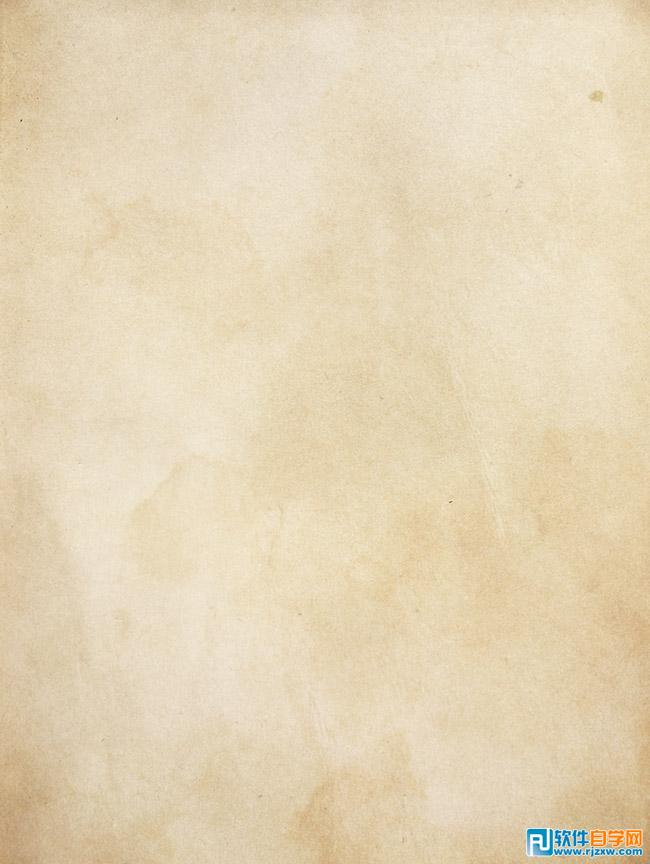
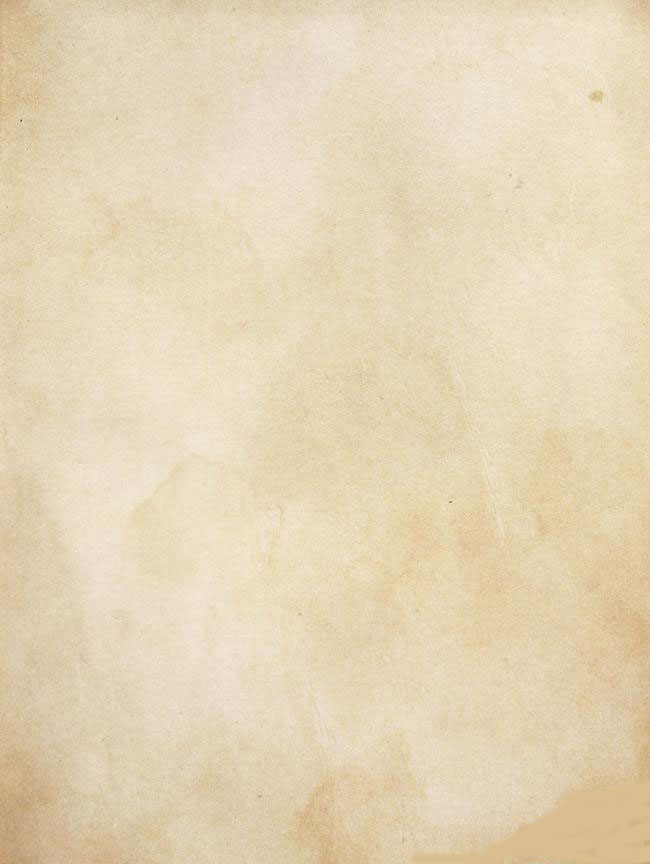
解决案例最后一个排版问题3

Changed region(s): [[0.8, 0.9375, 1.0, 1.0], [0.6462, 0.9688, 0.6769, 1.0]]

diff --git a/css/index.css b/css/index.css
@@ -315,7 +315,8 @@ body{
 }
 @media all and (max-width: 415px) {
 	.bjimg{
-		background: url(../img/bb2.jpg) no-repeat #fdfdf5 ;
+		background: url(../img/bb2.jpg)  #fdfdf5 ;
+		background-size: 100% 100%;
 	}
 	.logo{
 		width: 80px;
